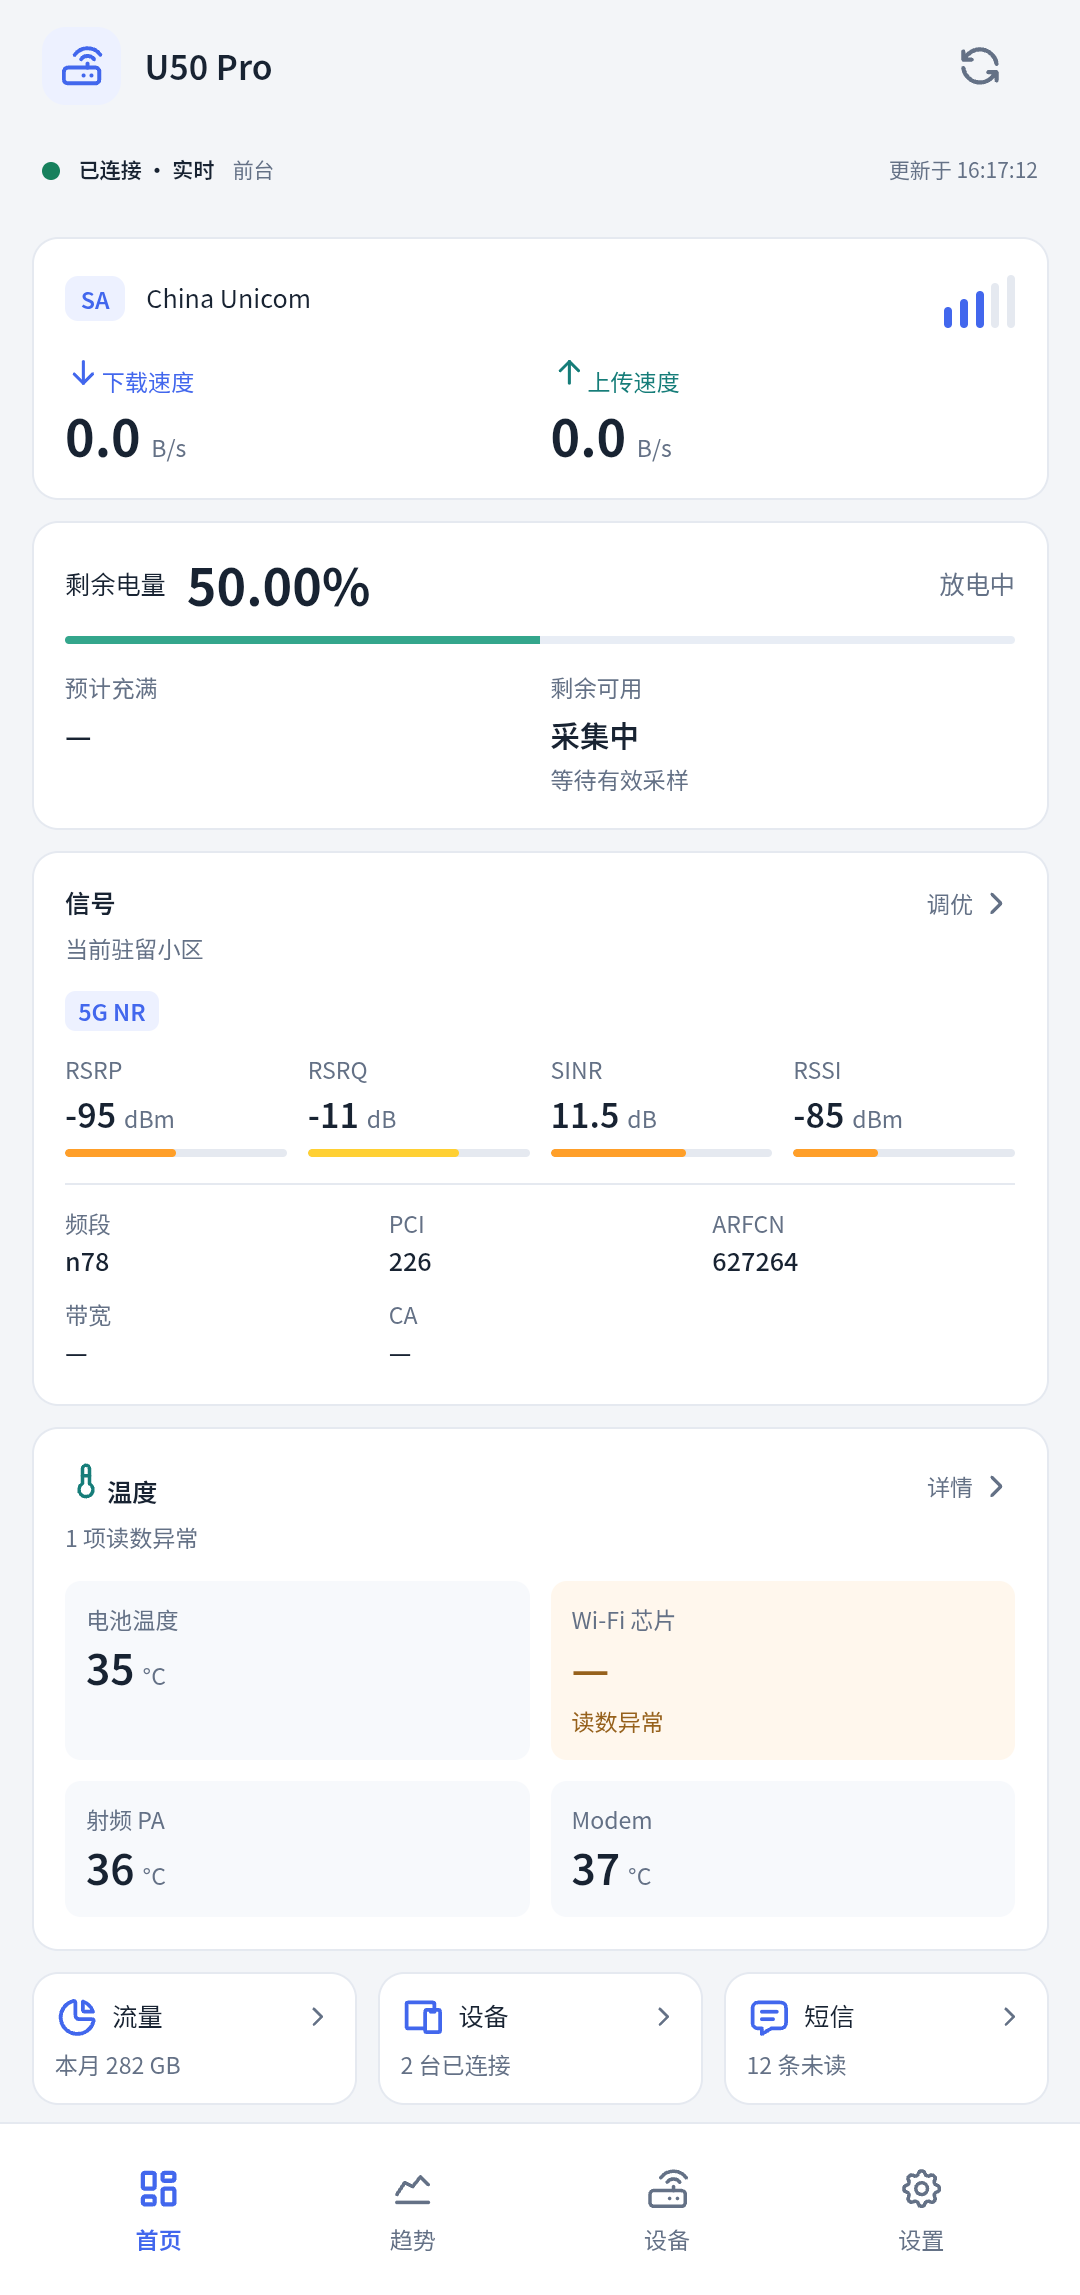
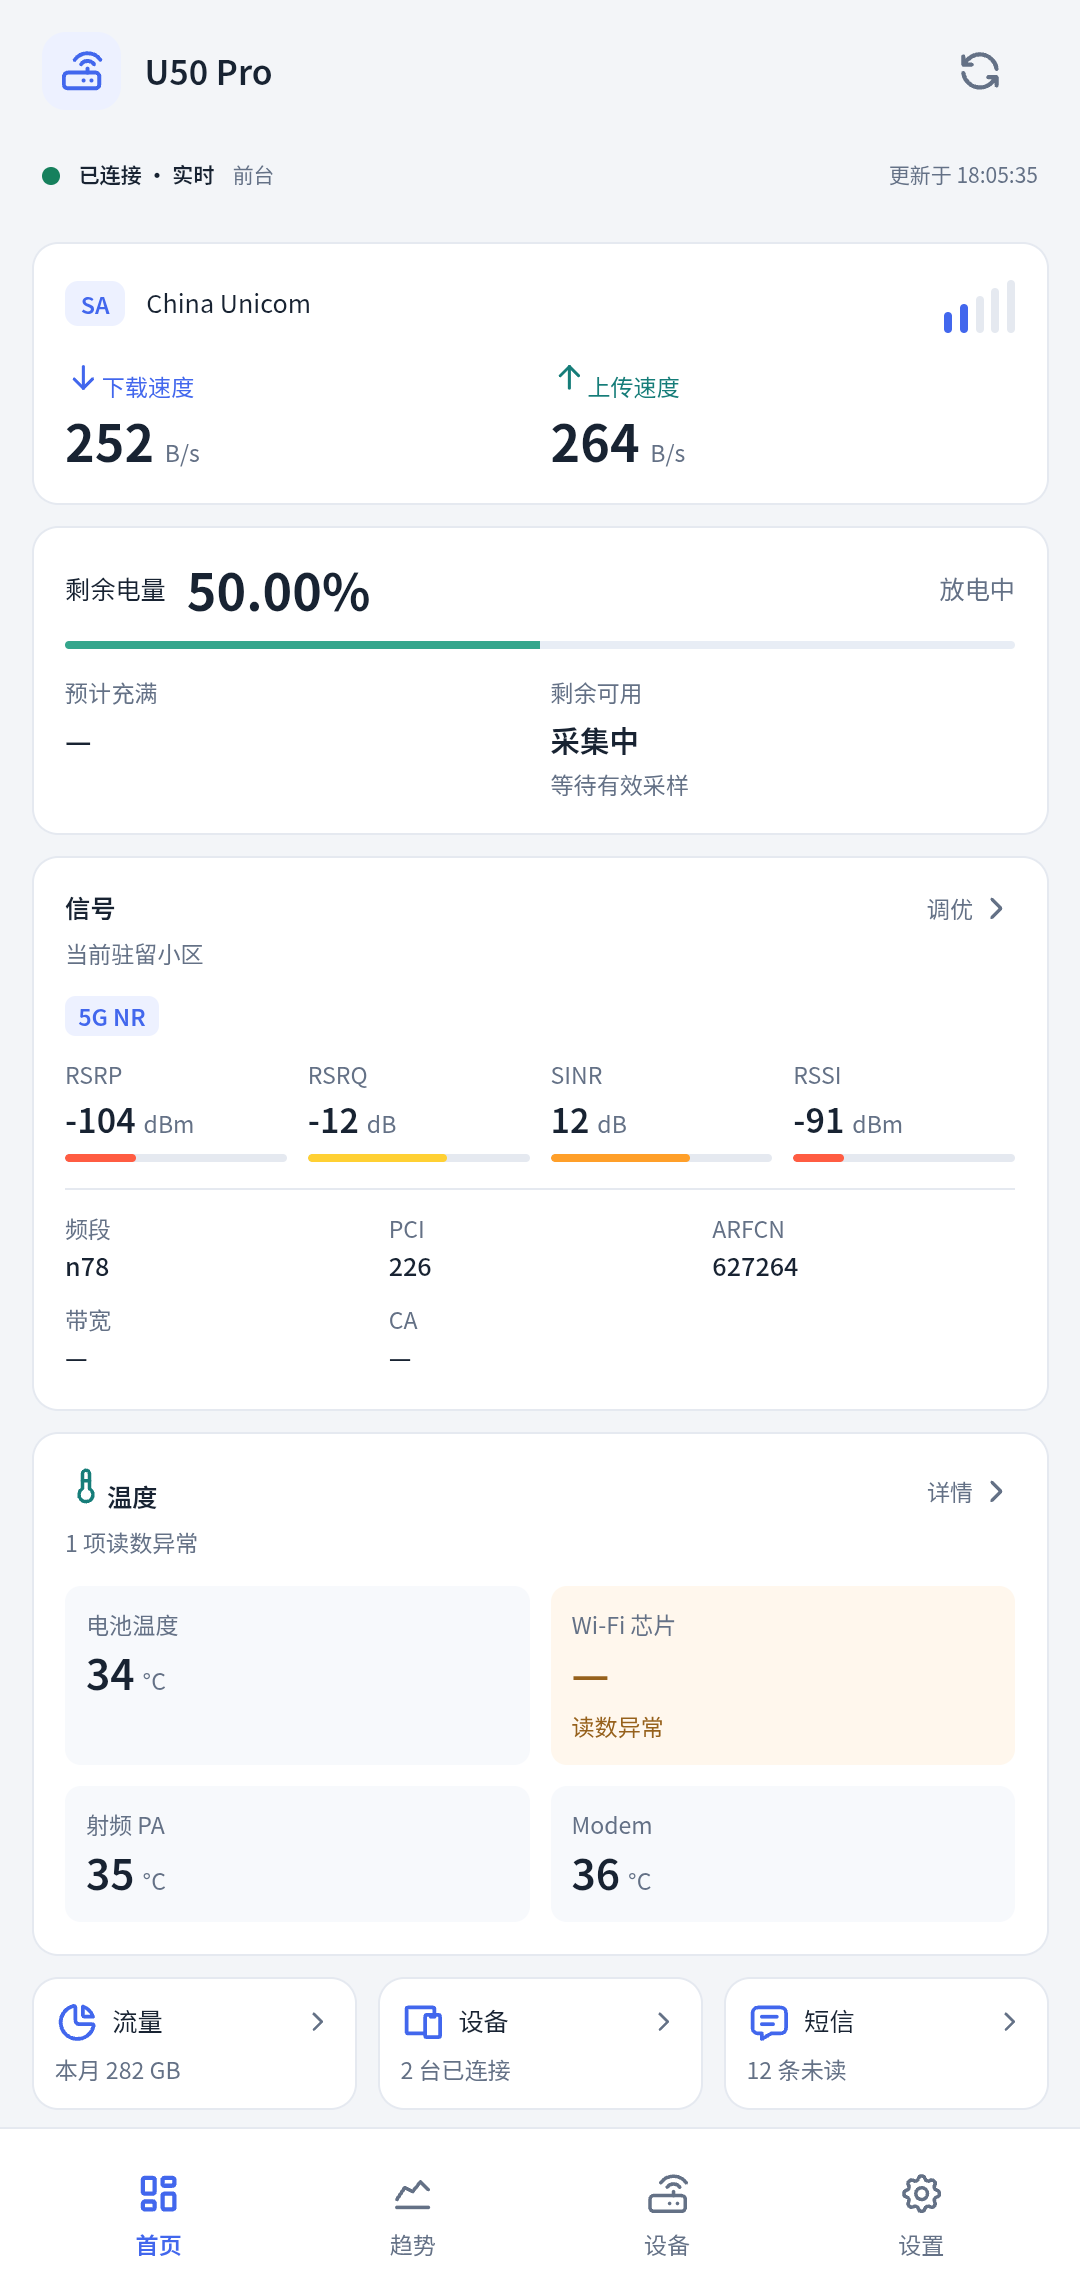
Document all Android features with regular screenshots and keep release notes text only

diff --git a/README.md b/README.md
@@ -21,19 +21,147 @@
 
 ## 界面预览
 
-以下为 1.3.58 常规 Android 版实机截图，裁去系统状态栏，未替换界面数据。
+截图来自常规版实机，按页面内容裁切并移除系统状态栏；敏感标识、短信内容和验证码已遮挡，原厂未返回的字段保留实际缺失值。长页面按滚动区域分图展示。展开下方图册可查看各项功能，点击图片可查看原图。
 
-**首页：实时速率、电池、信号与温度**
+**首页：实时上传与下载、电量与时间估算、信号、温度，以及流量、设备和短信快捷入口**
 
 ![1.3.58 常规版首页](docs/images/v1.3.58/overview.png)
 
-**趋势：最近 2 小时或 24 小时的监测记录**
+<details>
+<summary><strong>网速、温度与信号趋势（7 张）</strong></summary>
 
-![1.3.58 常规版趋势页](docs/images/v1.3.58/trends.png)
+<table>
+<tr>
+<td align="center" width="50%"><a href="docs/images/v1.3.58/trends-throughput-2h.png"><img src="docs/images/v1.3.58/trends-throughput-2h.png" width="280" alt="网速趋势：最近 2 小时的上传与下载" /></a><br /><strong>网速 · 2 小时</strong><br />上传与下载曲线、图例，以及流量管理入口。</td>
+<td align="center" width="50%"><a href="docs/images/v1.3.58/trends-throughput-24h-tooltip.png"><img src="docs/images/v1.3.58/trends-throughput-24h-tooltip.png" width="280" alt="网速趋势：24 小时窗口与采集来源提示" /></a><br /><strong>网速 · 24 小时与点按提示</strong><br />切换时间范围，点按曲线查看数值、时间与采集来源。</td>
+</tr>
+<tr>
+<td align="center"><a href="docs/images/v1.3.58/trends-temperature-chart.png"><img src="docs/images/v1.3.58/trends-temperature-chart.png" width="280" alt="温度趋势：各传感器曲线与图例" /></a><br /><strong>温度曲线</strong><br />各传感器的监测历史，点击图例可显示或隐藏曲线。</td>
+<td align="center"><a href="docs/images/v1.3.58/trends-temperature-readings.png"><img src="docs/images/v1.3.58/trends-temperature-readings.png" width="280" alt="温度趋势下部：传感器读数与采集详情入口" /></a><br /><strong>温度读数</strong><br />全部温度指标、异常或缺失说明，以及原始读数入口。</td>
+</tr>
+<tr>
+<td align="center"><a href="docs/images/v1.3.58/trends-signal-rsrp.png"><img src="docs/images/v1.3.58/trends-signal-rsrp.png" width="280" alt="信号趋势：RSRP" /></a><br /><strong>信号 · RSRP</strong><br />接收功率趋势，支持 2 小时与 24 小时切换。</td>
+<td align="center"><a href="docs/images/v1.3.58/trends-signal-sinr.png"><img src="docs/images/v1.3.58/trends-signal-sinr.png" width="280" alt="信号趋势：SINR" /></a><br /><strong>信号 · SINR</strong><br />信干噪比趋势。</td>
+</tr>
+<tr>
+<td align="center"><a href="docs/images/v1.3.58/trends-signal-rsrq.png"><img src="docs/images/v1.3.58/trends-signal-rsrq.png" width="280" alt="信号趋势：RSRQ" /></a><br /><strong>信号 · RSRQ</strong><br />接收质量趋势。</td>
+<td></td>
+</tr>
+</table>
 
-**设置：路由器连接、后台采集、悬浮监测与软件更新**
+</details>
 
-![1.3.58 常规版设置页](docs/images/v1.3.58/settings.png)
+<details>
+<summary><strong>原厂电池与续航记录（4 张）</strong></summary>
+
+<table>
+<tr>
+<td align="center" width="50%"><a href="docs/images/v1.3.58/battery-chart-readings.png"><img src="docs/images/v1.3.58/battery-chart-readings.png" width="280" alt="原厂电池：电量曲线、充放电状态与续航估算" /></a><br /><strong>电量曲线与时间估算</strong><br />原厂电量、充放电状态、电池温度、预计充满与剩余可用。</td>
+<td align="center" width="50%"><a href="docs/images/v1.3.58/battery-diagnostics-top.png"><img src="docs/images/v1.3.58/battery-diagnostics-top.png" width="280" alt="电池测量与估算依据上部：原厂缺失指标保留为空" /></a><br /><strong>测量与估算依据 · 上部</strong><br />电流、电压、容量与 USB 输入等字段；原厂未提供的数值保留为缺失。</td>
+</tr>
+<tr>
+<td align="center"><a href="docs/images/v1.3.58/battery-diagnostics-bottom.png"><img src="docs/images/v1.3.58/battery-diagnostics-bottom.png" width="280" alt="电池测量与估算依据下部：确认、校准与采样质量" /></a><br /><strong>测量与估算依据 · 下部</strong><br />满充确认、校准、采样质量、缺口与有效估算覆盖；保留原厂接口的实际缺失状态。</td>
+<td align="center"><a href="docs/images/v1.3.58/battery-history.png"><img src="docs/images/v1.3.58/battery-history.png" width="280" alt="续航记录：时间、电量、充放电与采集来源" /></a><br /><strong>续航记录</strong><br />按时间查看电量与充放电历史，记录保留采集来源。</td>
+</tr>
+</table>
+
+</details>
+
+<details>
+<summary><strong>流量、套餐与手动校准（3 张）</strong></summary>
+
+<table>
+<tr>
+<td align="center" width="50%"><a href="docs/images/v1.3.58/usage-plan.png"><img src="docs/images/v1.3.58/usage-plan.png" width="280" alt="流量管理：当前会话、本月合计与套餐用量" /></a><br /><strong>流量与套餐概况</strong><br />当前会话、本月合计，以及套餐状态、额度、已用和剩余流量。</td>
+<td align="center" width="50%"><a href="docs/images/v1.3.58/usage-settings.png"><img src="docs/images/v1.3.58/usage-settings.png" width="280" alt="流量设置：套餐、提醒、清零日期与已用校准" /></a><br /><strong>套餐设置与校准</strong><br />启用套餐、每月 GB、提醒比例、自动清零与日期，手动校准本月已用流量。</td>
+</tr>
+<tr>
+<td align="center"><a href="docs/images/v1.3.58/usage-details.png"><img src="docs/images/v1.3.58/usage-details.png" width="280" alt="用量明细：会话及本月上传、下载与联网时间" /></a><br /><strong>用量明细</strong><br />会话与本月的上传、下载和联网时间。</td>
+<td></td>
+</tr>
+</table>
+
+</details>
+
+<details>
+<summary><strong>连接设备、网络调优与频段锁定（7 张）</strong></summary>
+
+<table>
+<tr>
+<td align="center" width="50%"><a href="docs/images/v1.3.58/devices-clients.png"><img src="docs/images/v1.3.58/devices-clients.png" width="280" alt="连接设备：无线、有线设备与常用功能入口" /></a><br /><strong>连接设备</strong><br />无线与有线设备、网络和锁定摘要，以及短信、调优、原厂后台、设备控制入口。</td>
+<td align="center" width="50%"><a href="docs/images/v1.3.58/radio-network-serving.png"><img src="docs/images/v1.3.58/radio-network-serving.png" width="280" alt="网络调优：当前网络、服务小区与无线质量" /></a><br /><strong>当前网络与服务小区</strong><br />网络信息、RSRP / RSRQ / SINR / RSSI，以及 PCI、频段、ARFCN 和带宽。</td>
+</tr>
+<tr>
+<td align="center"><a href="docs/images/v1.3.58/radio-ca-trend.png"><img src="docs/images/v1.3.58/radio-ca-trend.png" width="280" alt="网络调优：辅载波、NR CA 与无线质量趋势" /></a><br /><strong>辅载波、CA 与无线质量趋势</strong><br />路由器实际返回的载波聚合信息，以及最近 2 小时信号曲线。</td>
+<td align="center"><a href="docs/images/v1.3.58/radio-neighbors.png"><img src="docs/images/v1.3.58/radio-neighbors.png" width="280" alt="邻小区：候选排序、搜索、重新扫描与选择" /></a><br /><strong>邻小区扫描与选择</strong><br />候选按信号强度排序，可搜索 PCI、ARFCN、Band，重新扫描并选择小区。</td>
+</tr>
+<tr>
+<td align="center"><a href="docs/images/v1.3.58/radio-cell-lock.png"><img src="docs/images/v1.3.58/radio-cell-lock.png" width="280" alt="小区锁定：当前锁定状态、所选参数与解除按钮" /></a><br /><strong>小区锁定</strong><br />当前锁定状态、所选候选参数，以及锁定和解除小区锁定入口。</td>
+<td align="center"><a href="docs/images/v1.3.58/radio-bands-lte.png"><img src="docs/images/v1.3.58/radio-bands-lte.png" width="280" alt="LTE 频段：选择、保存与解除限制" /></a><br /><strong>LTE 频段</strong><br />独立选择 LTE 频段、保存或解除限制。</td>
+</tr>
+<tr>
+<td align="center"><a href="docs/images/v1.3.58/radio-bands-sa-nsa.png"><img src="docs/images/v1.3.58/radio-bands-sa-nsa.png" width="280" alt="5G SA 与 NSA 频段：两组独立选择、保存与解除限制" /></a><br /><strong>5G SA 与 NSA 频段</strong><br />两组独立频段选项及保存、解除限制按钮。</td>
+<td></td>
+</tr>
+</table>
+
+</details>
+
+<details>
+<summary><strong>短信、原厂后台与设备控制（6 张）</strong></summary>
+
+<table>
+<tr>
+<td align="center" width="50%"><a href="docs/images/v1.3.58/sms-inbox.png"><img src="docs/images/v1.3.58/sms-inbox.png" width="280" alt="短信收件箱：容量、列表与验证码复制" /></a><br /><strong>短信收件箱</strong><br />容量、消息列表、刷新与验证码复制；敏感短信信息已遮挡。</td>
+<td align="center" width="50%"><a href="docs/images/v1.3.58/sms-selection.png"><img src="docs/images/v1.3.58/sms-selection.png" width="280" alt="短信选择：勾选、全选、数量与批量删除入口" /></a><br /><strong>短信选择与批量删除</strong><br />勾选消息、全选、已选数量，以及批量删除入口。</td>
+</tr>
+<tr>
+<td align="center"><a href="docs/images/v1.3.58/sms-compose.png"><img src="docs/images/v1.3.58/sms-compose.png" width="280" alt="写短信：收件人、内容、字数与发送入口" /></a><br /><strong>写短信</strong><br />通过路由器 SIM 卡发送，提供收件人、内容和字数计数。</td>
+<td align="center"><a href="docs/images/v1.3.58/stock-console.png"><img src="docs/images/v1.3.58/stock-console.png" width="280" alt="原厂后台：完整原厂页面、自动登录状态与缩放入口" /></a><br /><strong>原厂后台</strong><br />缩小后完整查看原厂页面；自动登录状态、缩放与重置入口。</td>
+</tr>
+<tr>
+<td align="center"><a href="docs/images/v1.3.58/device-details.png"><img src="docs/images/v1.3.58/device-details.png" width="280" alt="设备详情：固件、标识、开机信息与网络概况" /></a><br /><strong>设备详情</strong><br />固件、设备标识、开机与累计使用信息、网络概况；敏感标识已遮挡。</td>
+<td align="center"><a href="docs/images/v1.3.58/device-controls.png"><img src="docs/images/v1.3.58/device-controls.png" width="280" alt="设备控制：Wi-Fi 开关、重启与关机" /></a><br /><strong>设备控制</strong><br />Wi-Fi 开关、重启和关机，以及网络、流量、电池详情跳转入口。</td>
+</tr>
+</table>
+
+</details>
+
+<details>
+<summary><strong>连接设置、原厂电量、后台采集与悬浮监测（5 张）</strong></summary>
+
+<table>
+<tr>
+<td align="center" width="50%"><a href="docs/images/v1.3.58/settings.png"><img src="docs/images/v1.3.58/settings.png" width="280" alt="设置主页：连接、监控、悬浮开关、更新与诊断" /></a><br /><strong>设置入口</strong><br />路由器连接、电量来源、后台权限、悬浮开关、软件更新与诊断。</td>
+<td align="center" width="50%"><a href="docs/images/v1.3.58/settings-connection.png"><img src="docs/images/v1.3.58/settings-connection.png" width="280" alt="路由器连接：地址、密码、保存登录与开发者验证" /></a><br /><strong>路由器连接</strong><br />管理地址、密码、保存并登录，以及开发者权限验证。</td>
+</tr>
+<tr>
+<td align="center"><a href="docs/images/v1.3.58/settings-battery-factory.png"><img src="docs/images/v1.3.58/settings-battery-factory.png" width="280" alt="电量来源：常规版使用路由器原厂电池百分比" /></a><br /><strong>原厂电量来源</strong><br />常规版使用路由器原厂返回的电池百分比。</td>
+<td align="center"><a href="docs/images/v1.3.58/settings-background.png"><img src="docs/images/v1.3.58/settings-background.png" width="280" alt="后台采集与权限：采集状态、历史回补与电池优化" /></a><br /><strong>后台采集与权限</strong><br />采集状态、历史回补、采集来源、电池优化豁免与手机后台权限说明。</td>
+</tr>
+<tr>
+<td align="center"><a href="docs/images/v1.3.58/overlay-live.png"><img src="docs/images/v1.3.58/overlay-live.png" width="280" alt="其他应用上方的实时悬浮监测：网速、电量与电池温度" /></a><br /><strong>实时悬浮监测</strong><br />在其他应用上方显示上传、下载、电量与电池温度，可拖动位置。</td>
+<td></td>
+</tr>
+</table>
+
+</details>
+
+<details>
+<summary><strong>软件更新与采集诊断（3 张）</strong></summary>
+
+<table>
+<tr>
+<td align="center" width="50%"><a href="docs/images/v1.3.58/settings-update.png"><img src="docs/images/v1.3.58/settings-update.png" width="280" alt="软件更新：当前版本、手动检查与实际检查结果" /></a><br /><strong>软件更新</strong><br />当前版本、手动检查更新与实际检查结果。</td>
+<td align="center" width="50%"><a href="docs/images/v1.3.58/diagnostics-sources-temperature.png"><img src="docs/images/v1.3.58/diagnostics-sources-temperature.png" width="280" alt="采集诊断：24 小时来源统计与温度原始返回" /></a><br /><strong>来源统计与原始温度</strong><br />最近 24 小时的归档来源计数、温度原始字段与异常读数说明。</td>
+</tr>
+<tr>
+<td align="center"><a href="docs/images/v1.3.58/diagnostics-runtime.png"><img src="docs/images/v1.3.58/diagnostics-runtime.png" width="280" alt="采集与运行方式：通信、登录、历史保存与软件版本" /></a><br /><strong>采集与运行方式</strong><br />本机通信、登录方式、图表窗口、历史保存、软件版本与开发者信息。</td>
+<td></td>
+</tr>
+</table>
+
+</details>
 
 ## 四个页面入口
 

diff --git a/docs/releases/v1.3.58.md b/docs/releases/v1.3.58.md
@@ -12,21 +12,7 @@
 - 修复邻区扫描失败仍提示已发送，以及解除小区锁定失败或部分成功时误报全部成功的问题。
 - 修复关闭悬浮窗后返回应用，被后台进程旧设置重新开启的问题。
 
-## 界面
-
-**首页**
-
-![1.3.58 常规版首页](../images/v1.3.58/overview.png)
-
-**趋势**
-
-![1.3.58 常规版趋势页](../images/v1.3.58/trends.png)
-
-**设置**
-
-![1.3.58 常规版设置页](../images/v1.3.58/settings.png)
-
-截图来自常规版实机，裁去系统状态栏，未替换界面数据。
+功能介绍与页面截图见 [项目说明](../../README.md)。
 
 ## 安装
 
